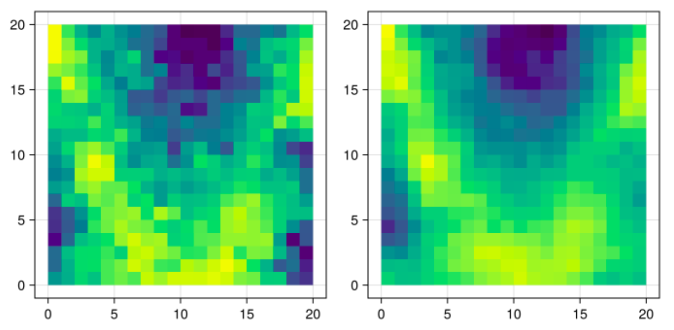
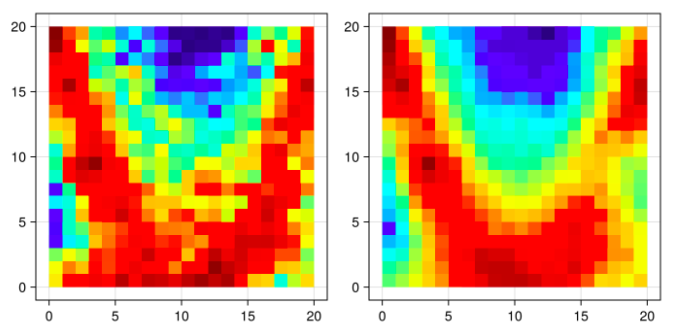
add sgs example after spatial deformation

diff --git a/README.md b/README.md
@@ -34,10 +34,10 @@ This package deals with local anisotropies in geostatistics. It offers some solu
 
 First, it is necessary to install Julia. Installation instructions for Windows, Linux and macOS are available [here](https://julialang.org/downloads/platform/).
 
-To install the package: open the Julia REPL and then install the package with the following command. The `GeoStats.jl`, `Makie.jl` and `WGLMakie.jl` packages are installed together to run the usage example.
+To install the package: open the Julia REPL and then install the package with the following command. The `GeoStats.jl`, `Makie.jl` and `CairoMakie.jl` packages are installed together to run the usage example.
 
 ```julia
-using Pkg; Pkg.add(["LocalAnisotropies","GeoStats","Makie","WGLMakie"])
+using Pkg; Pkg.add(["LocalAnisotropies","GeoStats","Makie","CairoMakie"])
 ```
 
 ## References
@@ -291,20 +291,25 @@ angs2 = convertangles.(pars.rotation, :GSLIB)
 # normal score transformation
 ns = Quantile()
 S_ns, ref_S_ns = apply(ns, S)
+Sd1_ns, ref_Sd1_ns = apply(ns, Sd1)
 
 # normal scores unconventional variography along local X axis
 expvario_ns = localvariography(S_ns, spars, :P, tol=2, maxlag=20, nlags=20, axis=:X)
 γx_ns = SphericalVariogram(sill=1.0, range=15.)
 
-# normal scores omni vario
-expomni_ns = EmpiricalVariogram(S_ns, :P, maxlag=20, nlags=20)
-γomni_ns = SphericalVariogram(sill=1.0, range=11.)
+# normal scores omni varios
+expomni1_ns = EmpiricalVariogram(S_ns, :P, maxlag=20, nlags=20)
+γomni1_ns = SphericalVariogram(sill=1.0, range=11.)
+expomni2_ns = EmpiricalVariogram(Sd1_ns, :P, maxlag=20, nlags=20)
+γomni2_ns = ExponentialVariogram(sill=1.0, range=50.)
 
-figv = Mke.Figure(size=(700, 350))
+figv = Mke.Figure(size=(700, 235))
 Mke.plot(figv[1,1],expvario_ns)
-Mke.plot!(figv[1,1],γx_ns)
-Mke.plot(figv[1,2],expomni_ns)
-Mke.plot!(figv[1,2],γomni_ns)
+Mke.plot!(figv[1,1],γx_ns,color=:red)
+Mke.plot(figv[1,2],expomni1_ns)
+Mke.plot!(figv[1,2],γomni1_ns,color=:red)
+Mke.plot(figv[1,3],expomni2_ns)
+Mke.plot!(figv[1,3],γomni2_ns,maxlag=20,color=:red)
 Mke.current_figure()
 ```
 
@@ -313,14 +318,14 @@ Mke.current_figure()
 </p>
 
 ```julia
-# sequential gaussian simulation without local anisotropies
-sgs = SEQMethod(maxneighbors=10)
-sims1 = rand(GaussianProcess(γomni_ns), G, S_ns, 50, sgs)
+# standard sequential gaussian simulation with isotropic variogram
+sgs = SEQMethod(maxneighbors=25)
+sims1 = rand(GaussianProcess(γomni1_ns), G, S_ns, 100, sgs)
 med1 = quantile(sims1, 0.5)
 sims1_bt = [revert(ns, x, ref_S_ns) for x in (sims1[1],med1)]
-fig6 = Mke.Figure(size=(700, 350))
-Mke.plot(fig6[1,1],G,color=sims1_bt[1].P)
-Mke.plot(fig6[1,2],G,color=sims1_bt[2].P)
+fig7 = Mke.Figure(size=(700, 350))
+Mke.plot(fig7[1,1],G,color=sims1_bt[1].P,colormap=:jet)
+Mke.plot(fig7[1,2],G,color=sims1_bt[2].P,colormap=:jet)
 Mke.current_figure()
 ```
 
@@ -329,20 +334,51 @@ Mke.current_figure()
 </p>
 
 ```julia
-# sequential gaussian simulation with local anisotropies
-local_sgs = LocalSGS(localaniso=lparsx,maxneighbors=10)
-sims2 = rand(GaussianProcess(γx_ns), G, S_ns, 50, local_sgs)
+# sequential gaussian simulation with local anisotropies (MW method)
+# not theoretically very correct, but can give good results
+local_sgs = LocalSGS(localaniso=lparsx,maxneighbors=25)
+sims2 = rand(GaussianProcess(γx_ns), G, S_ns, 100, local_sgs)
 med2 = quantile(sims2, 0.5)
 sims2_bt = [revert(ns, x, ref_S_ns) for x in (sims2[1],med2)]
-fig7 = Mke.Figure(size=(700, 350))
-Mke.plot(fig7[1,1],G,color=sims2_bt[1].P)
-Mke.plot(fig7[1,2],G,color=sims2_bt[2].P)
+fig8 = Mke.Figure(size=(700, 350))
+Mke.plot(fig8[1,1],G,color=sims2_bt[1].P,colormap=:jet)
+Mke.plot(fig8[1,2],G,color=sims2_bt[2].P,colormap=:jet)
 Mke.current_figure()
 ```
 
 <p align="center">
-  <img src="imgs/14_lsgs.png">
+  <img src="imgs/14_sgs_mw.png">
 </p>
+
+```julia
+# sequential gaussian simulation after spatial deformation
+# standard simulation after local anisotropies is "removed"
+sims3 = rand(GaussianProcess(γomni2_ns), Dd1, Sd1_ns, 100, sgs)
+med3 = quantile(sims3, 0.5)
+sims3_bt = [revert(ns, x, ref_Sd1_ns) for x in (sims3[1],med3)]
+fig9 = Mke.Figure(size=(700, 350))
+Mke.plot(fig9[1,1],G,color=sims3_bt[1].P,colormap=:jet)
+Mke.plot(fig9[1,2],G,color=sims3_bt[2].P,colormap=:jet)
+Mke.current_figure()
+```
+
+<p align="center">
+  <img src="imgs/15_sgs_sd.png">
+</p>
+
+```julia
+# comparison of the different simulation methods
+sim_solvers = ["SGS","SGS_MW","SGS_SD1"]
+sim_errors  = [mse(getproperty(x,:P),getproperty(D,:P)) for x in [sims1_bt[2],sims2_bt[2],sims3_bt[2]]]
+fig10 = Mke.Figure(size=(700, 350))
+Mke.barplot(fig10[1,1],1:3,sim_errors,axis=(xticks=(1:3,sim_solvers),ylabel="Mean squared error",xlabel="Simulation method (median)"))
+Mke.current_figure()
+```
+
+<p align="center">
+  <img src="imgs/16_comp.png">
+</p>
+
 
 [build-img]: https://img.shields.io/github/actions/workflow/status/rmcaixeta/LocalAnisotropies.jl/CI.yml?branch=master
 [build-url]: https://github.com/rmcaixeta/LocalAnisotropies.jl/actions
